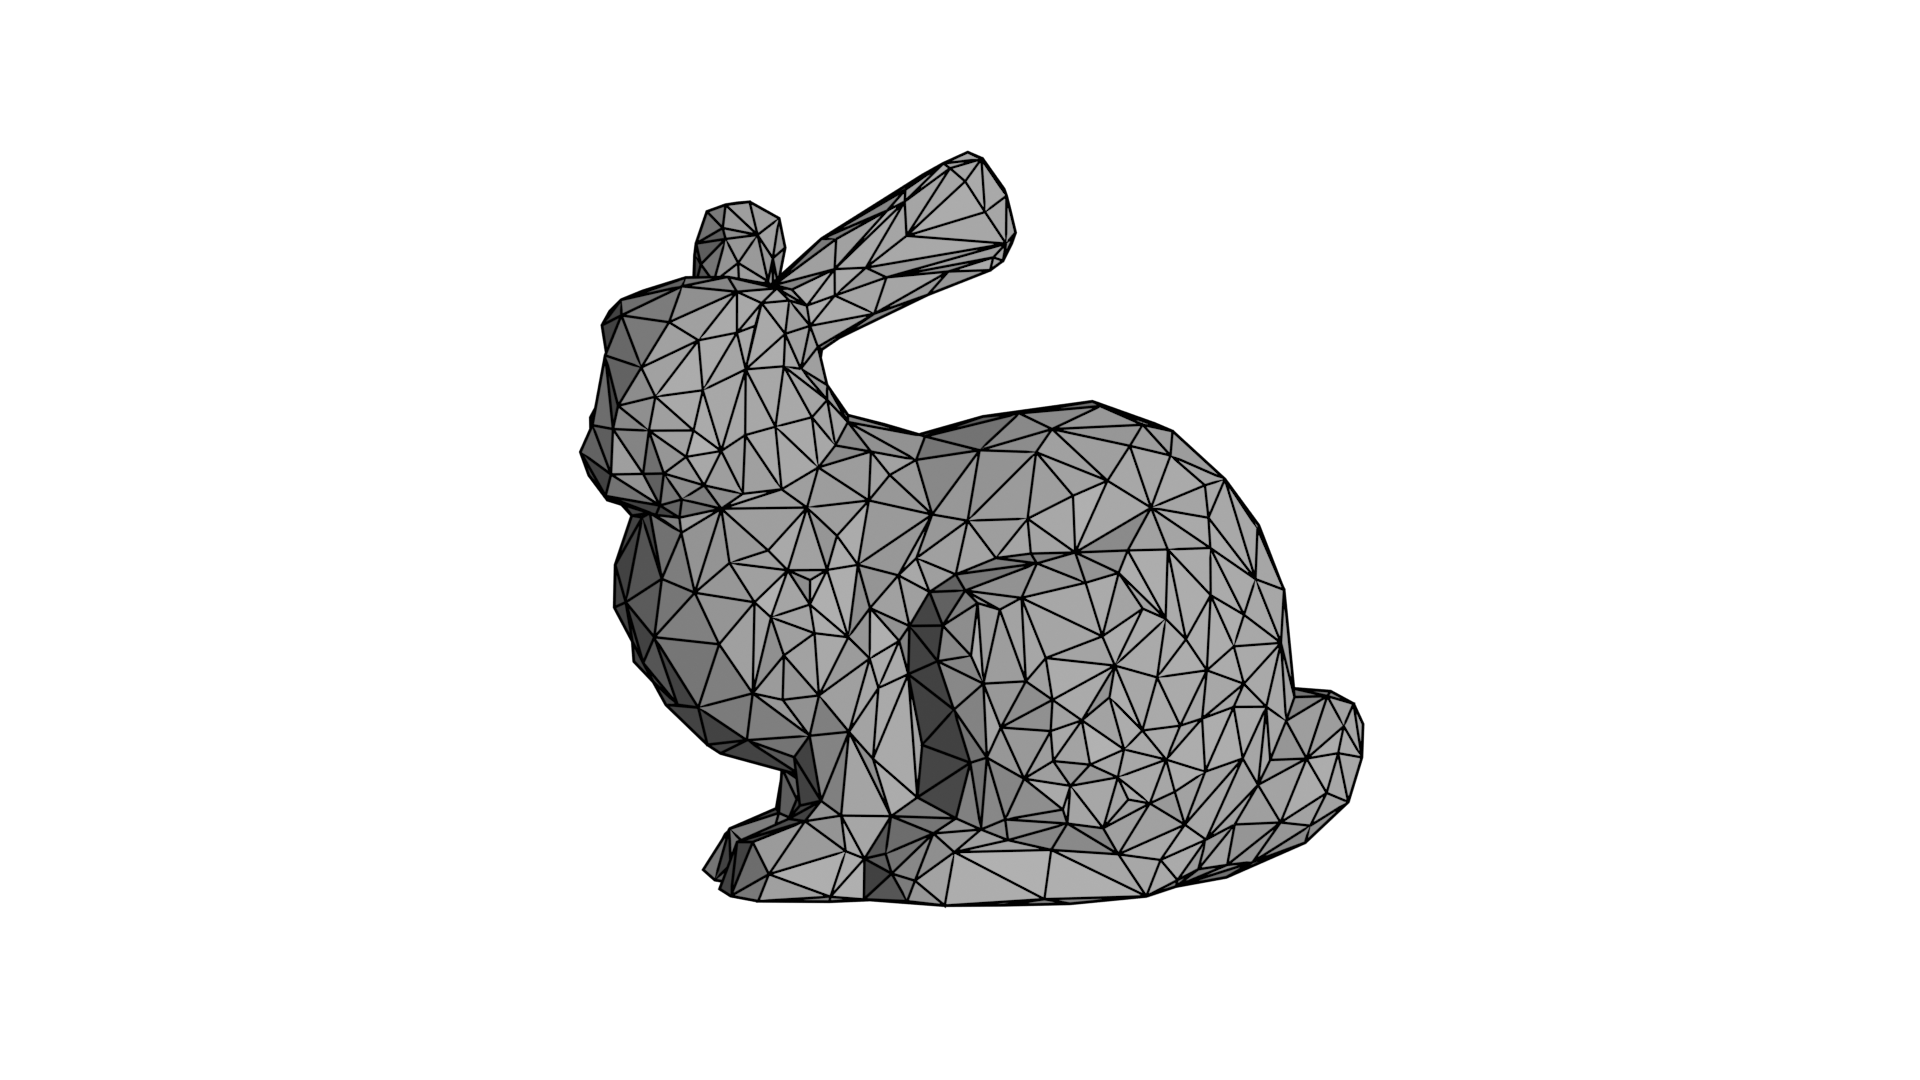
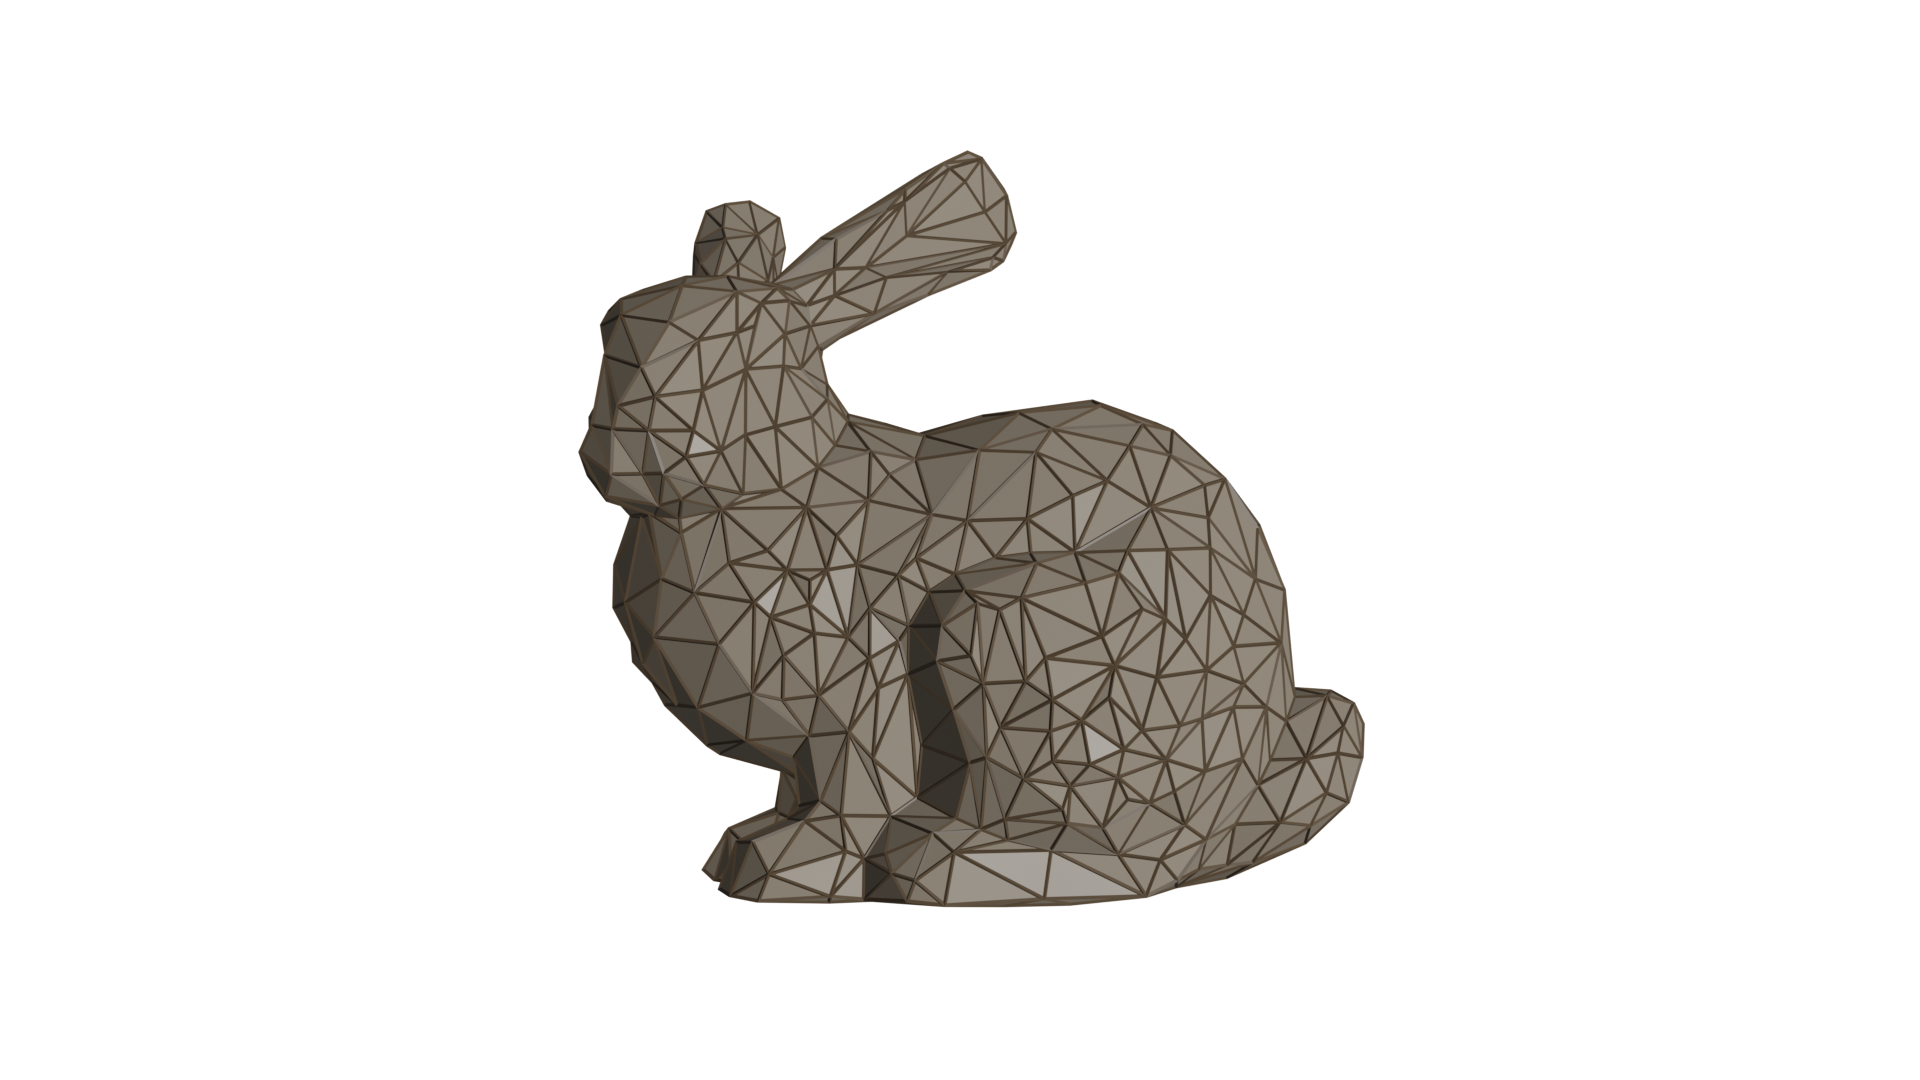
Another try at the wireframe bunny, this time with the wireframe modifier. For some reason I can't copy the bunny, or move the copy. Moving the camera is also pain.

Changed region(s): [[0.2812, 0.1222, 0.7188, 0.8556]]

diff --git a/homeworks/MarlQ/1-halfedge/teaser.py b/homeworks/MarlQ/1-halfedge/teaser.py
@@ -18,30 +18,53 @@ bpy.data.objects['bunny'].location = (0,0,0)
 bpy.data.objects['Camera'].rotation_euler = (0, 0, 0)
 bpy.data.objects['bunny'].rotation_euler = (0, 0, 0)
 
-#bpy.data.objects['Camera'].location = (0,5,0)
+material_base = bpy.data.materials.new(name="Material_Base")
+material_base.diffuse_color = (0.491021, 0.412543, 0.313989, 1.0)
+material_wireframe = bpy.data.materials.new(name="Material_Wireframe")
+material_wireframe.diffuse_color = (0.165132, 0.114435, 0.068478, 1.0)
+
+bpy.data.objects['Camera'].location = (-0.0253, 0.0853, 0.4853)
 #bpy.data.objects['Camera'].rotation_euler = Euler((0.3, 0.3, 0.4), 'XYZ')
 
 #ttc = bpy.data.objects['bunny'].constraints.new(type='TRACK_TO')
 #ttc.target = bpy.data.objects['bunny']
 #ttc.track_axis = 'TRACK_NEGATIVE_Z'
 #ttc.up_axis = 'UP_Y'
-bpy.ops.view3d.camera_to_view_selected()
+#bpy.ops.view3d.camera_to_view_selected()
 print(bpy.data.objects['Camera'].location)
 bpy.data.objects['Camera'].location = bpy.data.objects['Camera'].location + mathutils.Vector((0,0,0.2))
 
-bpy.data.objects['bunny'].select_set(True)
-bpy.context.view_layer.objects.active = bpy.data.objects['bunny']
-bpy.ops.object.mode_set(mode='EDIT')
-bpy.ops.mesh.select_all(action='SELECT')
-bpy.ops.mesh.mark_freestyle_edge(clear=False)
+
+
+
+# Bunny 3: Wireframe
+bunny_3 = bpy.data.objects['bunny']
+bunny_3.select_set(True)
+bpy.context.view_layer.objects.active = bunny_3
+
+bunny_3.data.materials.append(material_base)
+bunny_3.data.materials.append(material_wireframe)
+bunny_3.data.materials[0] = material_base # Why is necessary? I doesn't work without it
+bunny_3.data.materials[1] = material_wireframe # Why is necessary? I doesn't work without it
+
+bpy.ops.object.modifier_add(type="WIREFRAME")
+bpy.context.object.modifiers["Wireframe"].thickness = 0.001
+bpy.context.object.modifiers["Wireframe"].use_replace = False
+bpy.context.object.modifiers["Wireframe"].material_offset = 1
+
+# Bunny 4: Subdiv Wireframe
+#bunny_4 = bunny_3.copy()
+#bunny_4.location.x += 0.5 # Doesn't work for some reason
+#bunny_4.location.y += 0.2
+#bpy.ops.object.modifier_add(type="SUBSURF")
+
+
+
+
 #bpy.data.objects['Camera'].location = (0.3367, -0.3550, 0.3416)
 #bpy.ops.view3d.camera_fit_coords((0,0,0))
 bpy.context.scene.render.film_transparent = True
 bpy.context.scene.render.image_settings.color_mode = 'RGBA'
-
-bpy.context.scene.render.use_freestyle = True
-
-bpy.context.scene.view_layers["View Layer"].freestyle_settings.linesets["LineSet"].select_edge_mark = True
 
 bpy.context.scene.render.filepath = '//assets/teaser.png'
 bpy.ops.render.render(write_still = True)
